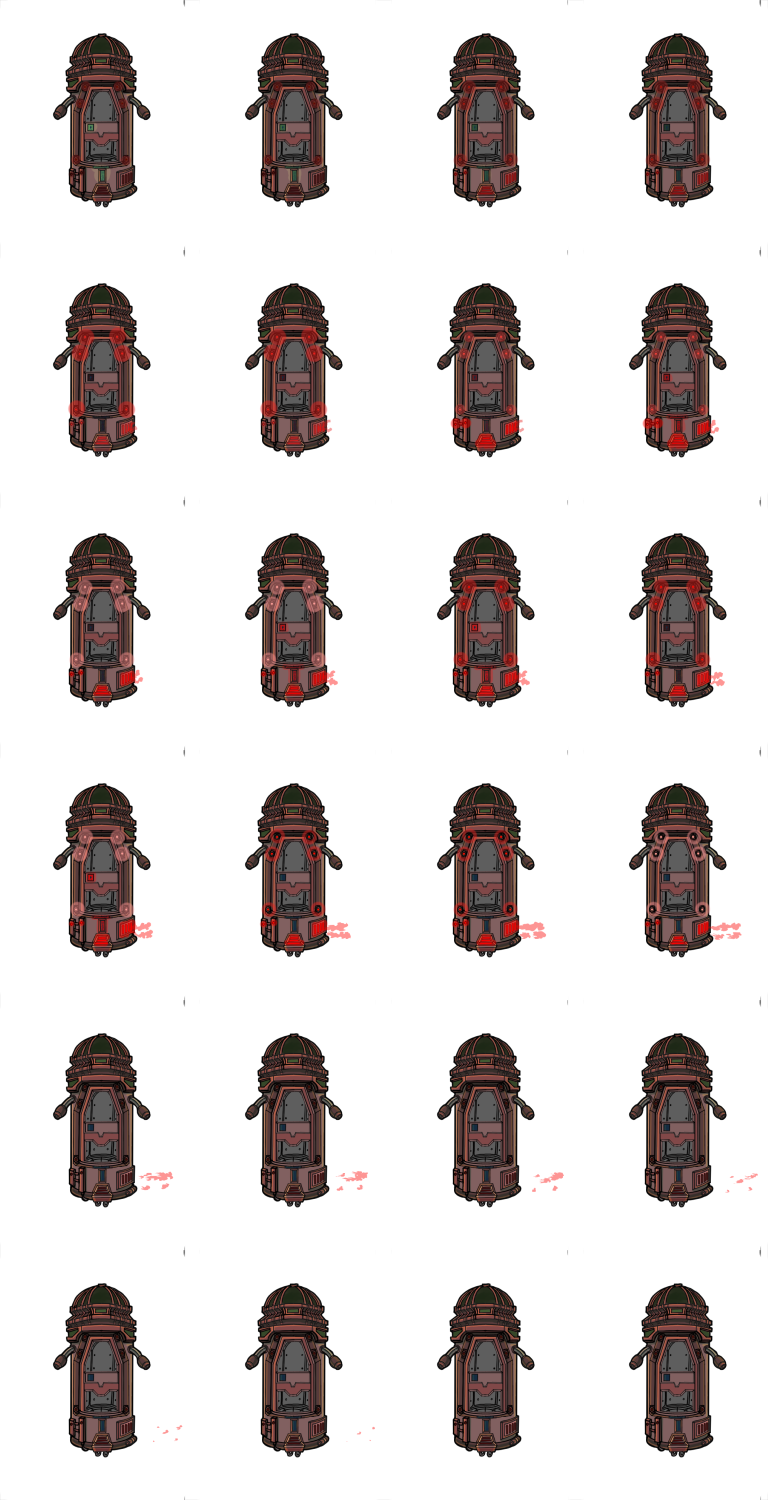
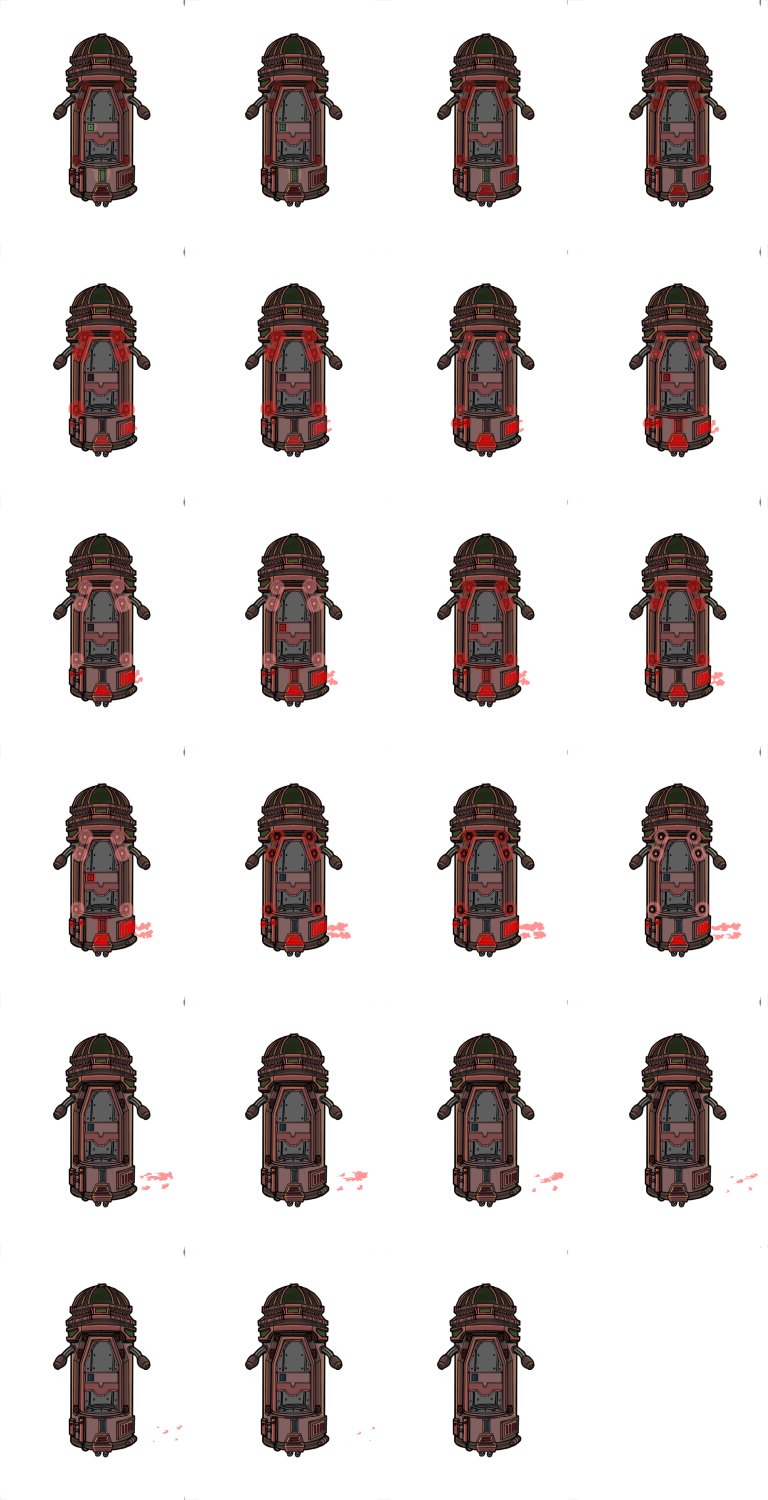
chest finish

Changed region(s): [[0.8125, 0.8587, 0.9375, 0.9813]]

diff --git a/src/app/ship/ship-view/ship.ts b/src/app/ship/ship-view/ship.ts
@@ -51,9 +51,7 @@ export class Ship {
     deltaSumShip: number;
     deltaSum: number;
 
-    spriteChest: PIXI.extras.AnimatedSprite;
     spriteChestParent: PIXI.Container;
-    spriteChestTab: Array<PIXI.extras.AnimatedSprite>;
     spriteTextChest: PIXI.Container;
     numberOfChest: number;
 
@@ -79,6 +77,14 @@ export class Ship {
         this.app = app;
         this.deltaSum = 0;
 
+        // Init the font 
+        const text = new PIXI.Text(' ',
+        {
+            fontFamily: 'Montserrat-Black',
+            fontSize: '1px'
+        });
+        this.app.stage.addChild(text);
+
         this.boolNewTourelle = false;
 
         this.deltaSumShip = 0;
@@ -103,7 +109,7 @@ export class Ship {
 
         this.transformShipY = this.ship.y;
         this.transformShipX = this.ship.x;
-
+        
         // Listen for animate update
         this.app.ticker.add((delta) => {
             if (this.ship) {
@@ -250,81 +256,31 @@ export class Ship {
     }
 
     // Chest managed - - - - - - - -- - - - - - - -- - -
-    initAnimatedChest() {
-        const spriteChest = new PIXI.extras.AnimatedSprite(getFramesFromSpriteSheet(
-            PIXI.loader.resources['coffre_anim1'].texture, 192, 250));
-        spriteChest.gotoAndPlay(0);
-        spriteChest.animationSpeed = 0.35;
-        spriteChest.texture.baseTexture.mipmap = true;
-        spriteChest.visible = true;
-        spriteChest.anchor.set(0.5);
-        spriteChest.scale.set(0.45);
-        return spriteChest;
-    }
-
-    initAnimatedChestOpen(spriteName, w, h) {
-        const spriteChest = new PIXI.extras.AnimatedSprite(getFramesFromSpriteSheet(
-            PIXI.loader.resources[spriteName].texture, w, h)); 
-        spriteChest.gotoAndPlay(0);
-        spriteChest.animationSpeed = 0.35;
-        spriteChest.loop = false;
-        spriteChest.texture.baseTexture.mipmap = true;
-        spriteChest.visible = true;
-        spriteChest.anchor.set(0.5);
-        return spriteChest;
-    }
-
-     initBulle(bulleName) {
-        const bulle = new PIXI.extras.AnimatedSprite(getFramesFromSpriteSheet(
-            PIXI.loader.resources[bulleName].texture, 250, 162));
-        bulle.gotoAndPlay(0);
-        bulle.animationSpeed = 0.50;
-        bulle.texture.baseTexture.mipmap = true;
-        bulle.visible = true;
-        bulle.loop = false;
-        bulle.anchor.set(0.5);
-        bulle.scale.set(3);
-        bulle.y = -225;
-        return bulle;
-    }
-
-    animatedBulleOpen(i: number, bulleName) {
-        if (bulleName === 'bulle2') {
-            this.spriteChestTab[i].children[0].visible = false;
-        }
-        return this.spriteChestTab[i].addChild(this.initBulle(bulleName));
-    }
-
     // init all of chest
     initChest() {
-        this.spriteChestParent = new PIXI.Container();
-        this.spriteTextChest = new PIXI.Container();
-        this.spriteChestTab = new Array<PIXI.extras.AnimatedSprite>();
-        this.ship.addChildAt(this.spriteChestParent, 5);
         if (this.numberOfChest > 0) {
-            this.spriteChestTab.push(this.initAnimatedChest());
-            this.spriteChestTab[0].x = 0;
-            this.spriteChestTab[0].y = 150;
-            this.spriteChestParent.addChild(this.spriteChestTab[0]);
+            this.spriteChestParent = new PIXI.Container();
+            this.spriteChestParent.x = 0;
+            this.spriteChestParent.y = 150;
+            this.initAnimationChest();
+            this.spriteChestParent.children[0].visible = true;
+            this.spriteTextChest = new PIXI.Container();
+            this.ship.addChildAt(this.spriteChestParent, 5);
         }
     }
 
     // remove chest for initChest
     supChest() {
-        for (let i = 0; i < this.spriteChestParent.children.length; i++) {
-            this.spriteChestParent.removeChildAt(i);
+        if (this.spriteChestParent) {
+            for (let i = 0 ; i < this.spriteChestParent.children.length; i++) {
+                this.spriteChestParent.children[i].destroy();
+            }
+            this.spriteChestParent.destroy(); // A VOIR SI BESOIn DE LE DETRUIRE !
+            this.initChest();
         }
-        delete this.spriteChestTab;
-        this.spriteChestParent.destroy();
-        this.initChest();
     }
 
-    animatedChestOpen(i: number, spriteName, w, h) {
-
-        return this.spriteChestTab[i].addChild(this.initAnimatedChestOpen(spriteName, w, h));
-    }
-
-    openChest(i, x, y, textString: string, values) {
+    openChestText(i, x, y, textString: string, values) {
         const sprite = PIXI.Sprite.fromImage('./assets/oreIcon/' + textString + 'Icon.png');
         if (textString === 'fer') {
             textString = 'IRON';
@@ -332,19 +288,55 @@ export class Ship {
             textString = textString.toUpperCase();
         }
         const text = new PIXI.Text(textString +  ' :\n' + values,
-         { fontFamily: 'Montserrat-Black', fontSize: 23, fill: 0x0000000, align: 'center' });
-        text.x += x;
+        {
+            fontFamily: 'Montserrat-Black',
+            fontSize: 8, fill: 0x0000000,
+            align: 'center'
+        });
+        text.x += x + 5;
         text.y += y;
 
         if (textString === 'CREDIT') {
-            sprite.x += 20;
+            sprite.x += 15;
         }
         sprite.x += x;
-        sprite.y += y + 75;
-        sprite.scale.set(0.40);
+        sprite.y += y - 20;
+        sprite.scale.set(0.15);
 
         this.spriteTextChest.addChild(sprite);
         this.spriteTextChest.addChild(text);
+    }
+
+
+    initAnimationChest() {
+        this.spriteChestParent.addChild(this.initAnimationFromSpriteName('coffre_anim1', 192, 250, true));
+        this.spriteChestParent.addChild(this.initAnimationFromSpriteName('coffre_anim2', 192, 250, false));
+        this.spriteChestParent.addChild(this.initAnimationFromSpriteName('coffre_anim3', 192, 250, false));
+        this.spriteChestParent.addChild(this.initAnimationFromSpriteName('bulle1', 250, 162, false));
+        this.initBull(3);
+        this.spriteChestParent.addChild(this.initAnimationFromSpriteName('bulle2', 250, 162, false));
+        this.initBull(4);
+        this.spriteChestParent.addChild(this.initAnimationFromSpriteName('explosionBulle', 350, 348, false));
+    }
+
+    initBull(i: number) {
+        const temp: any = this.spriteChestParent.children[i];
+        temp.animationSpeed = 0.50;
+        temp.anchor.set(0.5);
+        temp.scale.set(1);
+        temp.y = -100;
+    }
+    initAnimationFromSpriteName(spriteName, w, h, isLoop) {
+        const tempAnim = new PIXI.extras.AnimatedSprite(getFramesFromSpriteSheet(
+            PIXI.loader.resources[spriteName].texture, w, h));
+        tempAnim.gotoAndPlay(0);
+        tempAnim.animationSpeed = 0.35;
+        tempAnim.loop = isLoop;
+        tempAnim.texture.baseTexture.mipmap = true;
+        tempAnim.visible = false;
+        tempAnim.anchor.set(0.5);
+        tempAnim.scale.set(0.45);
+        return tempAnim;
     }
 
 }

diff --git a/src/app/ship/ship-view/ship-view.component.ts b/src/app/ship/ship-view/ship-view.component.ts
@@ -127,43 +127,59 @@ export class ShipViewComponent implements AfterViewInit {
   // Animation when you click on chest
   clickChest() {
     if (this.ship.numberOfChest > 0) {
-      let sprite = new PIXI.Sprite;
-      sprite = this.ship.spriteChestTab[0];
-      sprite.interactive = true;
-      sprite.buttonMode = true;
-      sprite.on('click', (event) => {
-        this.ship.spriteChestTab[0].loop = false;
-        this.ship.animatedBulleOpen(0, 'bulle1');
-        this.ship.spriteChestTab[0].buttonMode = false;
-        this.ship.spriteChestTab[0].interactive = false;
+      const tempSprite: any = this.ship.spriteChestParent.children;
+      tempSprite[0].interactive = true;
+      tempSprite[0].buttonMode = true;
+      tempSprite[0].on('click', (event) => {
+        tempSprite[0].visible = false;
+        tempSprite[0].buttonMode = false;
+        tempSprite[0].interactive = false;
 
-        const tempAnimate = this.ship.animatedChestOpen(0, 'coffre_anim2', 192, 250);
-        tempAnimate.onComplete = () => {
+        tempSprite[1].visible = true;
+        tempSprite[3].visible = true;
+        tempSprite[1].gotoAndPlay(0);
+        tempSprite[3].gotoAndPlay(0);
+        
+        tempSprite[1].onComplete = () => {
+          tempSprite[3].addChild(this.ship.spriteTextChest);
+          const xTemp = -50;
+          const yTemp = -10;
+
           let tempChest = this.userS.currentUser.chest[0].chest1;
-          this.ship.spriteChestTab[0].addChild(this.ship.spriteTextChest);
-
-          const xTemp = -230;
-          const yTemp = -300;
-          this.ship.openChest(0, xTemp - 30, yTemp + 12,
+          this.ship.openChestText(0, xTemp - 40, yTemp + 12,
              Object.keys(tempChest)[0], tempChest[Object.keys(tempChest)[0]]);
 
           tempChest = this.userS.currentUser.chest[0].chest2;
-          this.ship.openChest(0, xTemp + 180 , yTemp - 75, Object.keys(tempChest)[0], tempChest[Object.keys(tempChest)[0]]);
+          this.ship.openChestText(0, xTemp + 29 , yTemp - 25, Object.keys(tempChest)[0], tempChest[Object.keys(tempChest)[0]]);
 
           tempChest = this.userS.currentUser.chest[0].chest3;
-          this.ship.openChest(0, xTemp + 360, yTemp + 20, Object.keys(tempChest)[0], tempChest[Object.keys(tempChest)[0]]);
+          this.ship.openChestText(0, xTemp + 90, yTemp + 20, Object.keys(tempChest)[0], tempChest[Object.keys(tempChest)[0]]);
 
-          tempAnimate.interactive = true;
-          tempAnimate.buttonMode = true;
-          tempAnimate.on('click', () => {
+          tempSprite[1].interactive = true;
+          tempSprite[1].buttonMode = true;
+          tempSprite[1].on('click', () => {
             this.ship.spriteTextChest.destroy();
-            this.ship.animatedBulleOpen(0, 'bulle2').onComplete = () => {
+            tempSprite[3].visible = false;
+
+            tempSprite[4].visible = true;
+            tempSprite[4].gotoAndPlay(0);
+
+            tempSprite[4].onComplete = () => {
+              tempSprite[4].visible = false;
+              tempSprite[1].visible = false;
+
+              tempSprite[5].visible = true;
+              tempSprite[5].gotoAndPlay(0);
+              tempSprite[2].visible = true;
+              tempSprite[2].gotoAndPlay(0);
+
               delete this.ship.spriteTextChest;
-              this.ship.animatedChestOpen(0, 'coffre_anim3', 192, 250).onComplete = () => {
+
+              tempSprite[2].onComplete = () => {
 
               };
 
-              this.ship.animatedChestOpen(0, 'explosionBulle', 350, 348).onComplete = () => {
+              tempSprite[5].onComplete = () => {
                 this.socketS.removeChest();
               };
             };

diff --git a/src/app/market/topbar/quest/quest.component.html b/src/app/market/topbar/quest/quest.component.html
@@ -5,12 +5,12 @@
     {{ userS.currentUser.quest.name }} :
     {{ (userS.currentUser.quest.valuesFinal - userS.currentUser.quest.values).toFixed(2) }} / {{userS.currentUser.quest.valuesFinal}}    
     <br> <br>
-    You Win: {{ userS.currentUser.quest.gain }} Credit.
+    You Win: {{ userS.currentUser.quest.gain }} Chest.
 </div>
 
 <div *ngIf="userS.currentUser.quest.gain === 0">
   Daily Quest: <br> <br>
-  New quest every 3 hours ! 
+  New quest every 1 hours ! 
 </div>
 <br> <br>
 <div *ngIf="questS.questGroup.values != 0">
